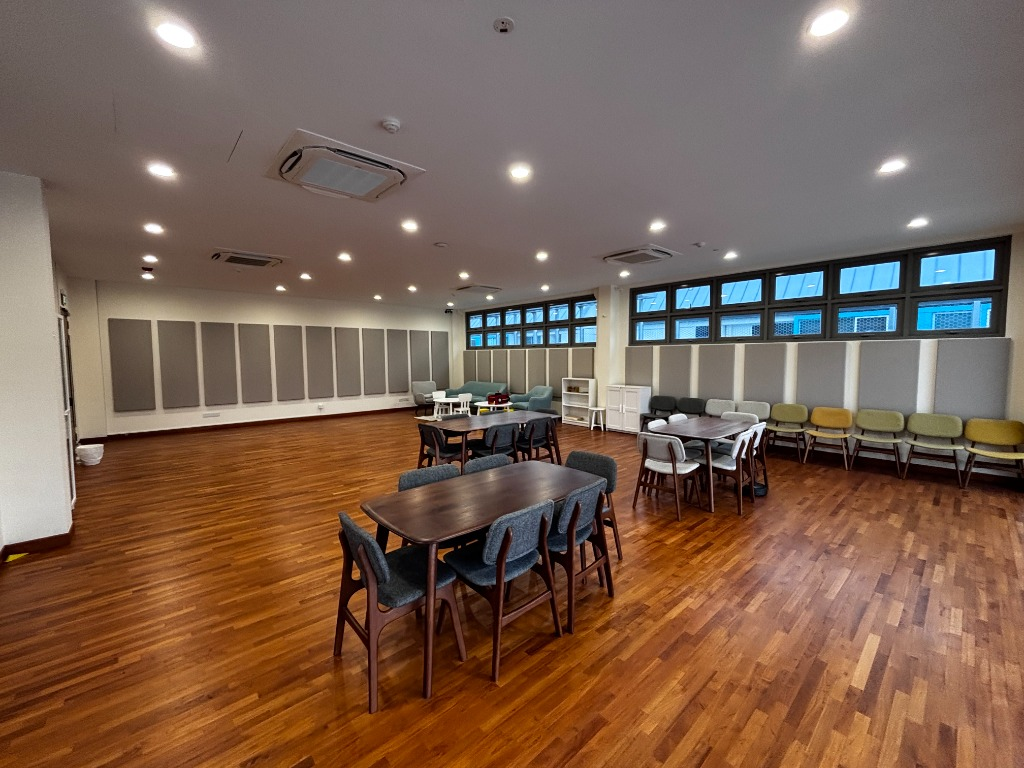
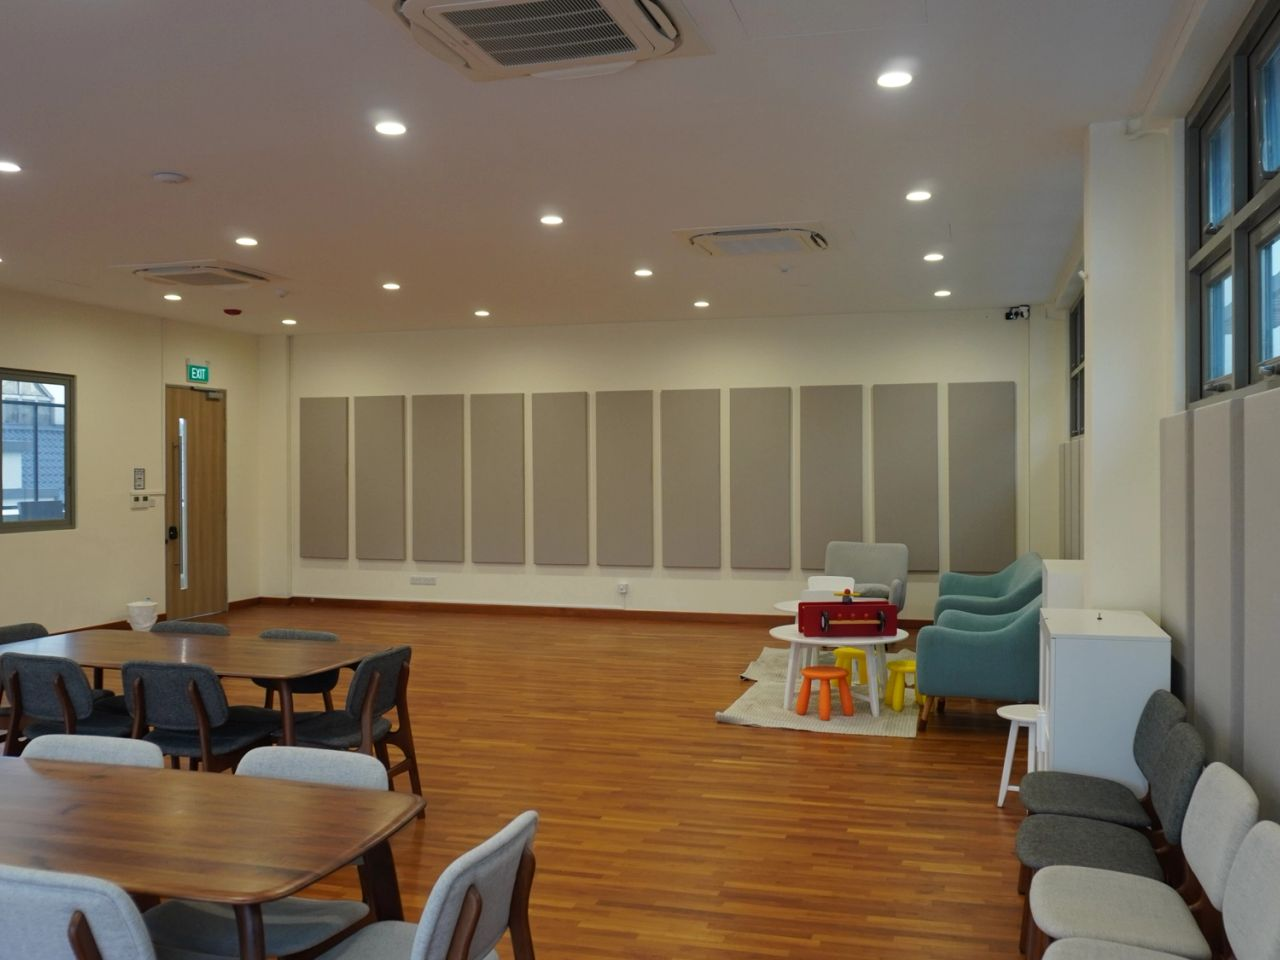
Fix QA findings: hero WhatsApp overlap, CSP gaps, space photos, quiz presets (#26)
From a full QA pass of the live site on mobile and desktop:
- Mobile homepage: the floating WhatsApp button covered the hero's own
  WhatsApp button. It now stays hidden on / until the bottom bar takes
  over (desktop unchanged).
- CSP blocked GA4's analytics.google.com/g/collect and Google Ads'
  ad.doubleclick.net/ccm collect, and Meta pixel's form/frame
  fallbacks. Added those hosts.
- The Churches card/menu photo showed an open-plan office and the
  Offices photo a living room. Replaced the two files with Just
  Acoustics project photos (Pasir Panjang Church of Christ hall and the
  Capital Asia Investments boardroom), which fixes the homepage, menu,
  pricing and shop uses at once.
- The general /acoustic-panels-singapore lander and general blog posts
  opened the quiz on the Home question. They now start at question 1;
  articles tied to a specific service still preset it.

diff --git a/next.config.ts b/next.config.ts
@@ -7,12 +7,12 @@ const securityHeaders = [
       "default-src 'self'",
       "script-src 'self' 'unsafe-inline' 'unsafe-eval' https://www.googletagmanager.com https://www.google-analytics.com https://www.googleadservices.com https://googleads.g.doubleclick.net https://www.google.com https://connect.facebook.net https://va.vercel-scripts.com https://vercel.live https://tally.so https://www.clarity.ms https://*.clarity.ms",
       "style-src 'self' 'unsafe-inline' https://fonts.googleapis.com",
-      "img-src 'self' data: blob: https://cdn.sanity.io https://i.ytimg.com https://www.googletagmanager.com https://*.google-analytics.com https://www.google-analytics.com https://www.google.com https://www.google.com.sg https://googleads.g.doubleclick.net https://pagead2.googlesyndication.com https://www.facebook.com https://*.clarity.ms https://c.bing.com",
+      "img-src 'self' data: blob: https://cdn.sanity.io https://i.ytimg.com https://www.googletagmanager.com https://*.google-analytics.com https://www.google-analytics.com https://www.google.com https://www.google.com.sg https://googleads.g.doubleclick.net https://pagead2.googlesyndication.com https://www.facebook.com https://*.clarity.ms https://c.bing.com https://ad.doubleclick.net",
       "font-src 'self' data: https://fonts.gstatic.com",
-      "connect-src 'self' https://vitals.vercel-insights.com https://*.vercel-insights.com https://va.vercel-scripts.com https://www.google-analytics.com https://*.google-analytics.com https://*.analytics.google.com https://www.googletagmanager.com https://www.google.com https://www.google.com.sg https://www.googleadservices.com https://googleads.g.doubleclick.net https://stats.g.doubleclick.net https://pagead2.googlesyndication.com https://www.facebook.com https://connect.facebook.net https://cdn.sanity.io https://*.api.sanity.io https://tally.so https://*.clarity.ms",
-      "frame-src 'self' https://tally.so https://www.googletagmanager.com https://td.doubleclick.net https://www.youtube.com https://www.youtube-nocookie.com",
+      "connect-src 'self' https://vitals.vercel-insights.com https://*.vercel-insights.com https://va.vercel-scripts.com https://www.google-analytics.com https://*.google-analytics.com https://*.analytics.google.com https://www.googletagmanager.com https://www.google.com https://www.google.com.sg https://www.googleadservices.com https://googleads.g.doubleclick.net https://stats.g.doubleclick.net https://pagead2.googlesyndication.com https://www.facebook.com https://connect.facebook.net https://cdn.sanity.io https://*.api.sanity.io https://tally.so https://*.clarity.ms https://analytics.google.com https://ad.doubleclick.net",
+      "frame-src 'self' https://tally.so https://www.googletagmanager.com https://td.doubleclick.net https://www.youtube.com https://www.youtube-nocookie.com https://www.facebook.com",
       "frame-ancestors 'self'",
-      "form-action 'self' https://tally.so",
+      "form-action 'self' https://tally.so https://www.facebook.com",
       "base-uri 'self'",
       "object-src 'none'",
     ].join('; '),

diff --git a/components/blog/ArticleDetail.tsx b/components/blog/ArticleDetail.tsx
@@ -8,7 +8,7 @@ import ReadingProgress from '@/components/blog/ReadingProgress'
 import RelatedPostCard from '@/components/blog/RelatedPostCard'
 import PriceEstimator from '@/components/estimator/LazyPriceEstimator'
 import { blockText, extractHeadings, slugify, whatsappLink, type ArticleNavView, type ArticleView, type ViewImage } from '@/lib/contentView'
-import type { ServicePage } from '@/lib/serviceLinks'
+import { SERVICE_PAGES, type ServicePage } from '@/lib/serviceLinks'
 
 const BODY_ID = 'article-body'
 const headingFont = { fontFamily: 'var(--font-heading)' }
@@ -94,6 +94,8 @@ export default function ArticleDetail({ article, nav, serviceLink }: { article: 
   const showToc = headings.length >= 3
   const components = bodyComponents(byBlock)
   const parts = splitForMidCta(article.body, headings.length)
+  // General articles fall back to the panels service page; only a specific service presets the quiz.
+  const estimatorSpace = serviceLink && serviceLink.href !== SERVICE_PAGES.panels.href ? serviceLink.priceSpace : undefined
   const width = showToc ? 'max-w-[1120px]' : 'max-w-[760px]'
 
   return (
@@ -167,7 +169,7 @@ export default function ArticleDetail({ article, nav, serviceLink }: { article: 
                 <div id={BODY_ID} className="rich-content article-body">
                   {parts.map((part, i) => (
                     <div key={i}>
-                      {i > 0 && <ArticleEstimator defaultSpace={serviceLink?.priceSpace} />}
+                      {i > 0 && <ArticleEstimator defaultSpace={estimatorSpace} />}
                       <PortableText value={part} components={components} />
                     </div>
                   ))}
@@ -175,7 +177,7 @@ export default function ArticleDetail({ article, nav, serviceLink }: { article: 
               )}
 
               {/* No mid-article split (or no body): show the estimator after the article instead. */}
-              {parts.length < 2 && <ArticleEstimator defaultSpace={serviceLink?.priceSpace} />}
+              {parts.length < 2 && <ArticleEstimator defaultSpace={estimatorSpace} />}
 
               <aside className="glass-card mt-12 flex flex-col gap-4 p-[clamp(20px,3vw,32px)]">
                 <p className="page-kicker !text-[var(--color-brand-orange)]">Free advice</p>

diff --git a/components/ui/MobileActionBar.tsx b/components/ui/MobileActionBar.tsx
@@ -33,11 +33,12 @@ export default function MobileActionBar() {
 
   // Let the floating WhatsApp button and cookie pill step aside while the bar is up.
   useEffect(() => {
-    document.body.dataset.mobileBar = shown ? 'on' : 'off'
+    // On the homepage the hero has its own WhatsApp button, so the floating one waits until the bar takes over.
+    document.body.dataset.mobileBar = shown ? 'on' : pathname === '/' ? 'hero' : 'off'
     return () => {
       delete document.body.dataset.mobileBar
     }
-  }, [shown])
+  }, [shown, pathname])
 
   if (hidden) return null
 

diff --git a/app/globals.css b/app/globals.css
@@ -878,7 +878,8 @@ body[data-gallery-expanded="true"] header {
 
 /* Mobile action bar: the floating WhatsApp button hides and the cookie pill moves up while the bar shows. */
 @media (max-width: 1023px) {
-  body[data-mobile-bar='on'] .wa-float {
+  body[data-mobile-bar='on'] .wa-float,
+  body[data-mobile-bar='hero'] .wa-float {
     opacity: 0;
     pointer-events: none;
   }

diff --git a/app/(site)/acoustic-panels-singapore/page.tsx b/app/(site)/acoustic-panels-singapore/page.tsx
@@ -62,7 +62,7 @@ export default async function Page() {
         config={config}
         {...data}
         relatedLinks={SPACE_LINKS_BY_SERVICE.panels}
-        estimator={<PriceEstimator defaultSpace="home" compact id="estimator" />}
+        estimator={<PriceEstimator compact id="estimator" />}
       />
     </>
   )
